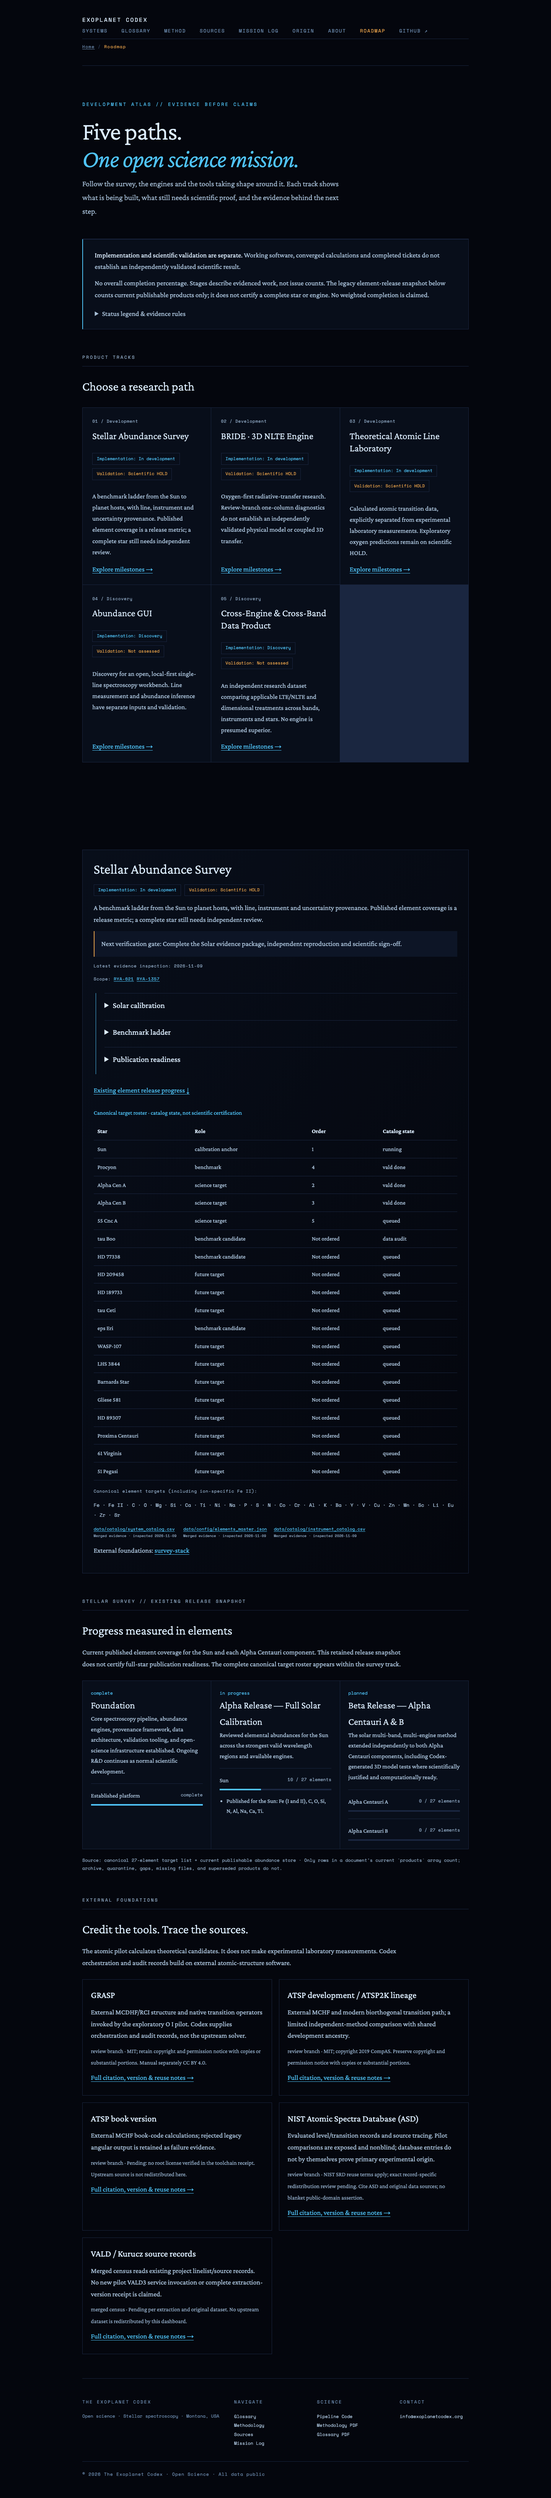
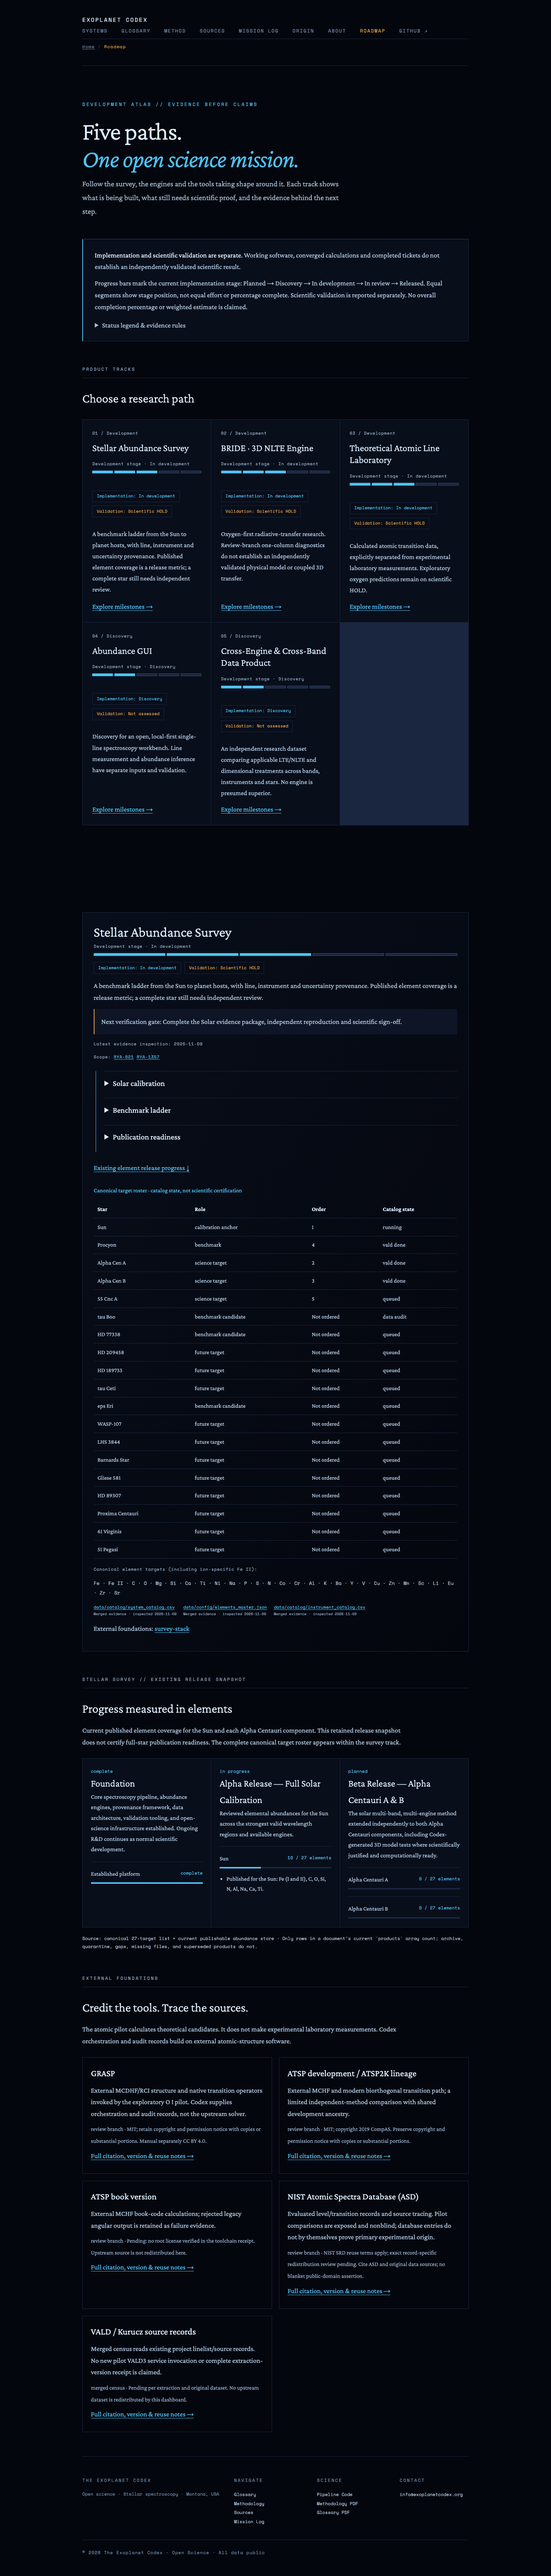
RYA-1370: keep homepage release summary separate and add research stage bars

diff --git a/assets/js/product-roadmap.js b/assets/js/product-roadmap.js
@@ -9,6 +9,20 @@
   const states = record => {const box=node('div',undefined,'state-pair');box.append(node('span',`Implementation: ${labels[record.status]||'Unknown'}`,'state'),node('span',`Validation: ${labels[record.validation]||'Not assessed'}`,'state science'));return box;};
   const evidence = items => {const list=node('ul',undefined,'evidence');for(const e of items||[]){const li=node('li');li.append(link(e.label,e.url),node('small',`${e.kind==='review'?'Review branch':e.kind==='scope'?'Scope only':'Merged evidence'} · inspected ${e.date}`));list.append(li);}return list;};
   const issues = ids => {const p=node('p',undefined,'roadmap-meta');p.append('Scope: ');for(const id of ids||[])p.append(link(id,`https://linear.app/ryans-adventure-zone/issue/${encodeURIComponent(id)}`),' ');return p;};
+  // Ordered implementation stages are ordinal markers, not weighted completion.
+  const stageBar = record => {
+    const stages=['planned','discovery','in_development','in_review','released'];
+    const current=stages.indexOf(record.status);
+    const box=node('div',undefined,'stage-progress');
+    box.append(node('div',`Development stage · ${labels[record.status]||'Not assessed'}`,'roadmap-meta'));
+    const bar=node('div',undefined,'stage-bar');
+    bar.setAttribute('role','progressbar');bar.setAttribute('aria-label',`${record.title} development stage`);
+    bar.setAttribute('aria-valuemin','0');bar.setAttribute('aria-valuemax','4');
+    if(current>=0)bar.setAttribute('aria-valuenow',String(current));
+    bar.setAttribute('aria-valuetext',`${labels[record.status]||'Not assessed'}; stage marker, not percentage complete`);
+    stages.forEach((stage,i)=>{const segment=node('span',undefined,i<=current?'stage-segment reached':'stage-segment');segment.setAttribute('aria-hidden','true');bar.append(segment);});
+    box.append(bar);return box;
+  };
   let panels=[],selectors=[];
   const select = () => {const id=location.hash.slice(1);const found=panels.some(p=>p.id===id);const selected=found?id:panels[0]?.id;panels.forEach(p=>p.hidden=p.id!==selected);selectors.forEach(a=>a.setAttribute('aria-current',String(a.hash.slice(1)===selected)));};
   function render(data) {
@@ -19,9 +33,9 @@
     const cards=node('div',undefined,'product-cards'), nav=node('nav',undefined,'product-selector');nav.setAttribute('aria-label','Product selector');
     for(const p of [...data.products].sort((a,b)=>a.display_order-b.display_order)){
       if(!/^[a-z][a-z0-9-]*$/.test(p.id)||!Array.isArray(p.milestones))throw Error('Invalid product');
-      const card=node('article',undefined,'product-card');card.append(node('div',`0${p.display_order} / ${p.stage}`,'product-number'),node('h3',p.title),states(p),node('p',p.summary),link('Explore milestones →',`#${p.id}`));cards.append(card);
+      const card=node('article',undefined,'product-card');card.append(node('div',`0${p.display_order} / ${p.stage}`,'product-number'),node('h3',p.title),stageBar(p),states(p),node('p',p.summary),link('Explore milestones →',`#${p.id}`));cards.append(card);
       const tab=link(p.title,`#${p.id}`);nav.append(tab);selectors.push(tab);
-      const panel=node('article',undefined,'product-detail');panel.id=p.id;panel.setAttribute('aria-label',p.title);panel.append(node('h3',p.title),states(p),node('p',p.summary),node('p',`Next verification gate: ${p.gate}`,'next-gate'),node('p',`Latest evidence inspection: ${p.updated}`,'roadmap-meta'),issues(p.issues));
+      const panel=node('article',undefined,'product-detail');panel.id=p.id;panel.setAttribute('aria-label',p.title);panel.append(node('h3',p.title),stageBar(p),states(p),node('p',p.summary),node('p',`Next verification gate: ${p.gate}`,'next-gate'),node('p',`Latest evidence inspection: ${p.updated}`,'roadmap-meta'),issues(p.issues));
       const list=node('ol',undefined,'milestones');
       for(const mi of p.milestones){const li=node('li'),details=node('details'),summary=node('summary',mi.title);details.append(summary,states(mi),node('p',mi.summary),node('p',`Verification gate: ${mi.gate}`),evidence(mi.evidence),issues(mi.issues));li.append(details);list.append(li);}panel.append(list);
       if(p.id==='stellar-survey'){

diff --git a/assets/css/product-roadmap.css b/assets/css/product-roadmap.css
@@ -5,7 +5,7 @@
 .product-selector{display:flex;flex-wrap:wrap;gap:.5rem;margin:1.5rem 0}.product-selector a{border:1px solid var(--rim);padding:.6rem .8rem;font: .65rem/1.6 var(--mono);text-decoration:none}.product-selector a[aria-current="true"]{border-color:var(--accent);background:var(--surface)}
 .product-detail{padding:1.6rem;border:1px solid var(--rim);background:linear-gradient(120deg,var(--deep),var(--void));scroll-margin-top:1rem}.product-detail[hidden]{display:none}.product-detail h3{font:300 2rem/1.25 var(--serif);color:var(--text-bright)}.product-detail>p{margin:.8rem 0}.state-pair{display:flex;gap:.5rem;flex-wrap:wrap;margin:.9rem 0}.state{font:.62rem/1.6 var(--mono);color:var(--accent);border:1px solid var(--rim);padding:.3rem .6rem}.state.science{color:var(--accent-warm)}.next-gate{padding:1rem;border-left:2px solid var(--accent-warm);background:var(--surface)}
 .milestones{list-style:none;padding:0;margin:1.5rem 0;counter-reset:milestone}.milestones>li{border-left:1px solid var(--accent);padding:0 0 1.2rem 1.2rem;margin-left:.3rem}.milestones summary{cursor:pointer;color:var(--text-bright);font-size:1.15rem}.milestones p{margin:.6rem 0}.milestones details{border-top:1px solid var(--rim);padding-top:.7rem}.milestones .roadmap-meta{margin-top:.5rem}.evidence{display:flex;flex-wrap:wrap;gap:.4rem 1rem;margin:.8rem 0;list-style:none;padding:0}.evidence li{font:.62rem/1.8 var(--mono)}.evidence small{display:block;color:var(--text-dim)}.credit-links{margin:1rem 0}.credit-links a{margin-right:1rem}.target-table-wrap{overflow-x:auto;margin:1rem 0}.target-table{width:100%;border-collapse:collapse;font-size:.85rem}.target-table th,.target-table td{text-align:left;padding:.55rem;border-bottom:1px solid var(--rim)}.target-table th{color:var(--text-bright)}.target-table caption{text-align:left;color:var(--accent);margin:.7rem 0}.canonical-elements{font:.7rem/2 var(--mono);overflow-wrap:anywhere}.credits-grid{display:grid;grid-template-columns:repeat(2,minmax(0,1fr));gap:1rem;margin-top:1.3rem}.credit{border:1px solid var(--rim);padding:1.2rem;overflow-wrap:anywhere}.credit h3{color:var(--text-bright);font-size:1.3rem;font-weight:400}.credit p{margin:.5rem 0}.credit small{color:var(--text-dim)}
-.release-grid{display:grid;grid-template-columns:repeat(3,minmax(0,1fr));gap:1px;background:var(--rim);border:1px solid var(--rim);margin-top:1.3rem}.release{background:var(--deep);padding:1.2rem;min-width:0}.release h2{font-size:1.4rem}.release-status,.target-count,.source{font:.65rem/1.8 var(--mono);color:var(--text-dim)}.release-status{color:var(--accent)}.release-summary{font-size:.9rem}.target{border-top:1px solid var(--rim);margin-top:1rem;padding-top:1rem}.target-head{display:flex;flex-wrap:wrap;justify-content:space-between;gap:.5rem;font-size:.85rem}.track{height:4px;background:var(--rim);margin-top:.5rem}.fill{height:100%;background:var(--accent)}.notes{padding-left:1rem;font-size:.85rem;margin-top:.8rem}.source{margin-top:1rem}.error{padding:1.2rem;border:1px solid var(--accent-warm)}
 @media(max-width:900px){.product-cards{grid-template-columns:repeat(2,minmax(0,1fr))}}@media(max-width:760px){.product-cards,.release-grid,.credits-grid{grid-template-columns:1fr}.product-detail{padding:1rem}.legend{grid-template-columns:1fr;gap:.2rem}.legend dd{margin-bottom:.7rem}.product-selector a{flex:1 1 140px}.roadmap-principle{padding:1rem}}
 @media(prefers-reduced-motion:reduce){html{scroll-behavior:auto}*,*::before,*::after{animation:none!important;transition:none!important}#starfield{display:none}.codex-nav,.page-hero,.codex-footer{opacity:1;transform:none}}
 .codex-footer a{color:var(--text-mid)}.breadcrumb a{text-decoration:underline;text-underline-offset:.2em}body :focus-visible{outline:2px solid var(--accent-warm);outline-offset:5px}
+.stage-progress{margin:.2rem 0 .4rem}.stage-bar{display:flex;gap:4px;height:7px;margin:.45rem 0}.stage-segment{flex:1;background:var(--rim);border:1px solid #344c68}.stage-segment.reached{background:var(--accent);border-color:var(--accent);box-shadow:0 0 8px #4fc3f728}

diff --git a/assets/js/release-roadmap.js b/assets/js/release-roadmap.js
@@ -2,6 +2,7 @@
   "use strict";
   const host=document.getElementById("release-roadmap");
   if(!host)return;
+  const summaryMode=host.dataset.mode==="summary";
   const esc=(value)=>String(value).replace(/[&<>"']/g,(c)=>({"&":"&amp;","<":"&lt;",">":"&gt;",'"':"&quot;","'":"&#39;"}[c]));
   const targetMarkup=(target)=>{
     const percent=Math.round(target.progress_fraction*1000)/10;
@@ -12,9 +13,9 @@
     host.innerHTML=`<div class="release-grid">${data.releases.map((release)=>{
       const targets=release.targets||[];
       const progress=release.progress_fraction===undefined?"":targetMarkup({target_name:"Established platform",label:"complete",complete_products:1,total_products:1,progress_fraction:release.progress_fraction});
-      const notes=(release.notes||[]).length?`<ul class="notes">${release.notes.map(note=>`<li>${esc(note)}</li>`).join("")}</ul>`:"";
+      const notes=!summaryMode&&(release.notes||[]).length?`<ul class="notes">${release.notes.map(note=>`<li>${esc(note)}</li>`).join("")}</ul>`:"";
       return `<article class="release" data-status="${esc(release.status)}"><div class="release-status">${esc(release.status.replaceAll("_"," "))}</div><h2>${esc(release.name)}</h2><p class="release-summary">${esc(release.summary)}</p>${progress}${targets.map(targetMarkup).join("")}${notes}</article>`;
-    }).join("")}</div><p class="source">Source: canonical 27-element target list + current publishable abundance store · ${esc(data.sources.publication_gate)}</p>`;
+    }).join("")}</div><p class="source">${summaryMode?"":"Source: canonical "+esc(data.canonical_product_count)+"-target list + current publishable abundance store · "}${summaryMode?"Current published element coverage; full milestones and evidence on the Roadmap page.":esc(data.sources.publication_gate)}</p>`;
   };
   fetch("/assets/data/release-roadmap.v1.json",{headers:{Accept:"application/json"}}).then(response=>{if(!response.ok)throw new Error(`HTTP ${response.status}`);return response.json();}).then(render).catch(()=>{host.innerHTML='<p class="error">Release progress is temporarily unavailable. Scientific products remain available through the system pages.</p>';});
 })();

diff --git a/index.html b/index.html
@@ -161,6 +161,7 @@
       .notify-input { border-right:1px solid var(--muted); border-bottom:none; }
     }
   </style>
+  <link rel="stylesheet" href="/assets/css/release-roadmap.css">
 </head>
 <body>
 
@@ -177,7 +178,7 @@
       <li><a href="/mission-log/">Mission Log</a></li>
       <li><a href="/origin/">Origin</a></li>
       <li><a href="/about/">About</a></li>
-      <li><a href="#roadmap">Roadmap</a></li>
+      <li><a href="/roadmap.html">Roadmap</a></li>
       <li><a href="https://github.com/damienabraxas/exoplanetcodex" target="_blank">GitHub ↗</a></li>
     </ul>
     <div class="status-pill">Pipeline active</div>
@@ -280,15 +281,11 @@
     </div>
   </section>
 
-  <section id="roadmap" style="width:100%;margin:0 0 0;">
-    <iframe
-      src="/roadmap.html"
-      title="Live Project Roadmap"
-      scrolling="no"
-      style="width:100%;border:none;display:block;min-height:560px;"
-      loading="lazy"
-      onload="this.style.height=(this.contentDocument.body.scrollHeight+40)+'px'"
-    ></iframe>
+  <section id="roadmap" class="release-summary-section">
+    <div class="section-label">Release progress</div>
+    <h2>From Solar calibration to the stars</h2>
+    <div id="release-roadmap" data-mode="summary" aria-live="polite"><p>Loading release progress…</p></div>
+    <p class="roadmap-page-link"><a href="/roadmap.html">Explore the full scientific roadmap →</a></p>
   </section>
 
   <section class="pillars-section" id="method">
@@ -328,5 +325,6 @@
 <script src="/assets/js/starfield.js"></script>
 <script src="/assets/js/codex.js"></script>
   <script src="/assets/js/local-neighborhood.js" defer></script>
+<script src="/assets/js/release-roadmap.js"></script>
 </body>
 </html>

diff --git a/assets/css/release-roadmap.css b/assets/css/release-roadmap.css
@@ -1,0 +1,5 @@
+#release-roadmap .release-grid{display:grid;grid-template-columns:repeat(3,minmax(0,1fr));gap:1px;background:var(--rim);border:1px solid var(--rim);margin-top:1.3rem}#release-roadmap .release{background:var(--deep);padding:1.2rem;min-width:0}#release-roadmap .release h2{font-size:1.4rem}#release-roadmap .release-status,#release-roadmap .target-count,#release-roadmap .source{font:.65rem/1.8 var(--mono);color:var(--text-dim)}#release-roadmap .release-status{color:var(--accent)}#release-roadmap .release-summary{font-size:.9rem}#release-roadmap .target{border-top:1px solid var(--rim);margin-top:1rem;padding-top:1rem}#release-roadmap .target-head{display:flex;flex-wrap:wrap;justify-content:space-between;gap:.5rem;font-size:.85rem}#release-roadmap .track{height:4px;background:var(--rim);margin-top:.5rem}#release-roadmap .fill{height:100%;background:var(--accent)}#release-roadmap .notes{padding-left:1rem;font-size:.85rem;margin-top:.8rem}#release-roadmap .source{margin-top:1rem}#release-roadmap .error{padding:1.2rem;border:1px solid var(--accent-warm)}
+
+.release-summary-section{padding:2rem 0 3rem}.release-summary-section h2{font:300 2rem/1.3 var(--serif);color:var(--text-bright)}.roadmap-page-link{margin:1.3rem 0 0;text-align:right}.roadmap-page-link a{font:.7rem/1.7 var(--mono);color:var(--accent);text-underline-offset:.2em}
+#release-roadmap .source{color:var(--text-mid)}#release-roadmap .target-count{color:var(--accent)}
+@media(max-width:760px){#release-roadmap .release-grid{grid-template-columns:1fr}}

diff --git a/roadmap.html b/roadmap.html
@@ -14,6 +14,7 @@
   <link rel="stylesheet" href="/assets/css/codex.css">
   <link rel="canonical" href="https://exoplanetcodex.org/roadmap.html">
   <link rel="stylesheet" href="/assets/css/product-roadmap.css">
+  <link rel="stylesheet" href="/assets/css/release-roadmap.css">
 </head>
 <body>
   <a class="skip-link" href="#main">Skip to roadmap</a>

diff --git a/tests/browser_product_roadmap.py b/tests/browser_product_roadmap.py
@@ -14,6 +14,7 @@ def main():
         for width,name in [(1440,'desktop'),(390,'mobile'),(320,'small-mobile')]:
             page.set_viewport_size({'width':width,'height':1000 if width==1440 else 844});page.goto(ORIGIN+'/roadmap.html');ready(page)
             assert page.locator('.product-card').count()==5
+            assert page.locator('.product-card [role=progressbar]').count()==5
             assert page.evaluate('document.documentElement.scrollWidth <= innerWidth')
             page.screenshot(path=str(OUT/f'after-{name}.png'),full_page=True)
             page.goto(ORIGIN+'/roadmap.html#atomic-laboratory');ready(page);assert page.locator('#atomic-laboratory').is_visible();assert not page.locator('#stellar-survey').is_visible()
@@ -29,6 +30,16 @@ def main():
         data['products'][0]['title']='<img src=x onerror="window.injected=1">';data['products'][0]['milestones'][0]['evidence'][0]['url']='javascript:alert(1)'
         page.route('**/product-roadmap.v1.json',lambda route:route.fulfill(json=data));page.goto(ORIGIN+'/roadmap.html');ready(page);assert not page.evaluate('Boolean(window.injected)');assert page.locator('#product-roadmap img').count()==0;assert page.locator('#product-roadmap a[href^="javascript:"]').count()==0;page.unroute('**/product-roadmap.v1.json')
         page.route('**/product-roadmap.v1.json',lambda route:route.fulfill(status=503));page.goto(ORIGIN+'/roadmap.html');page.locator('#product-roadmap .error').wait_for();page.unroute('**/product-roadmap.v1.json')
+        # Homepage is a compact release summary; the dashboard is a separate page.
+        for width,name in [(1440,'desktop'),(390,'mobile')]:
+            page.set_viewport_size({'width':width,'height':1000 if width==1440 else 844})
+            page.goto(ORIGIN+'/');page.wait_for_selector('#release-roadmap .target-count')
+            assert page.locator('iframe[src="/roadmap.html"]').count()==0
+            assert page.locator('.product-card').count()==0
+            assert page.locator('#release-roadmap [role=progressbar]').count()==4
+            assert page.locator('#release-roadmap').inner_text().find('10 / 27')>=0
+            page.locator('#roadmap').screenshot(path=str(OUT/f'homepage-summary-{name}.png'))
+            assert page.locator('#roadmap').evaluate('(e)=>e.scrollWidth <= e.clientWidth')
         # Check every local page/asset linked by the roadmap (fragments separately).
         page.goto(ORIGIN+'/roadmap.html');ready(page);links=page.locator('a[href^="/"],link[href^="/"],script[src^="/"]').evaluate_all('(els)=>els.map(e=>e.getAttribute("href")||e.getAttribute("src"))')
         for href in set(links):assert page.request.get(ORIGIN+href.split('#')[0]).ok,href

diff --git a/tests/test_product_roadmap.py b/tests/test_product_roadmap.py
@@ -39,6 +39,13 @@ class ProductRoadmapTests(unittest.TestCase):
     def test_shared_shell_and_preserved_legacy(self):
         html=(ROOT/'roadmap.html').read_text();self.assertIn('/assets/css/codex.css',html);self.assertIn('class="codex-nav"',html);self.assertIn('class="codex-footer"',html);self.assertIn('aria-current="page"',html)
         self.assertIn('id="release-roadmap"',html);self.assertIn('url=/roadmap.html',(ROOT/'roadmap/index.html').read_text())
+    def test_homepage_has_compact_summary_and_separate_roadmap(self):
+        html=(ROOT/"index.html").read_text()
+        self.assertIn('id="release-roadmap" data-mode="summary"',html)
+        self.assertIn('href="/roadmap.html"',html)
+        self.assertNotIn('src="/roadmap.html"',html)
+        self.assertNotIn('product-roadmap.js',html)
+
     def test_generated_sources_is_current(self):
         spec=importlib.util.spec_from_file_location('credits',ROOT/'scripts/render_roadmap_credits.py');module=importlib.util.module_from_spec(spec);spec.loader.exec_module(module)
         html=(ROOT/'sources/index.html').read_text();self.assertEqual(module.updated(html),html)

diff --git a/docs/qa/rya1370/review.md b/docs/qa/rya1370/review.md
@@ -63,7 +63,7 @@ escaping the macOS sandbox's Chromium Mach-port restriction.
 Host: macOS arm64; isolated Python 3.9.6, Playwright 1.60.0 / Chromium
 148.0.7778.96, jsonschema 4.25.1; Node syntax checks.
 
-- `python -m unittest discover -s tests -p '*roadmap*.py'`: exit 0, 8 tests.
+- `python -m unittest discover -s tests -p '*roadmap*.py'`: exit 0, 9 tests.
 - `python scripts/render_roadmap_credits.py --check`: exit 0.
 - `python scripts/sync_roadmap_catalogs.py --science-root <pinned-science-checkout> --check`: exit 0.
 - `node --check assets/js/product-roadmap.js`: exit 0.
@@ -79,3 +79,15 @@ on the roadmap without changing its markup or other pages. Browser harness histo
 assertions now wait for actual visibility, route fixtures accept both callback
 arguments, and entry points are guarded against unittest import side effects.
 No unresolved new engineering test failures.
+
+## Requested layout refinement
+
+Homepage iframe integration was missed in the initial pass. The final homepage
+now renders compact release cards directly from the same retained release JSON,
+including Solar calibration progress, with an explicit link to the standalone
+Roadmap page. No five-track dashboard or shared header is embedded in the homepage.
+Research cards and detail panels now include an ordinal development-stage progress
+bar with accessible values; no numerical percentage estimate is introduced.
+Homepage desktop/mobile summary screenshots are included. Browser checks verify
+the summary and absence of the old dashboard iframe. The existing homepage hero
+extends outside the document viewport independently; changed summary bounds pass.

diff --git a/docs/product-roadmap.md b/docs/product-roadmap.md
@@ -1,5 +1,8 @@
 # Product roadmap maintenance (RYA-1370)
 
+The homepage uses compact release cards from the existing release snapshot and
+links to the standalone Roadmap page; it does not embed the dashboard in an iframe.
+
 `/roadmap.html` owns the five-track public development snapshot. `/roadmap/`
 continues to redirect there. Product fragments are `#stellar-survey`, `#bride`,
 `#atomic-laboratory`, `#abundance-gui` and `#cross-engine`. The retained element
@@ -62,6 +65,11 @@ it does not claim that differently named external artifacts were inspected.
    attribution. No upstream code or raw atomic databases are redistributed here.
 
 ## Progress methodology
+
+Each research-path card has an accessible segmented progress bar marking the
+current implementation stage (Planned, Discovery, In development, In review,
+Released). Equal segments represent ordinal stages, not equal work or numerical
+completion. Scientific validation remains a separate field.
 
 There is no weighted completion calculation and no project-wide percentage. No
 GUI “5%” estimate is claimed. Implementation stage and validation disposition are
